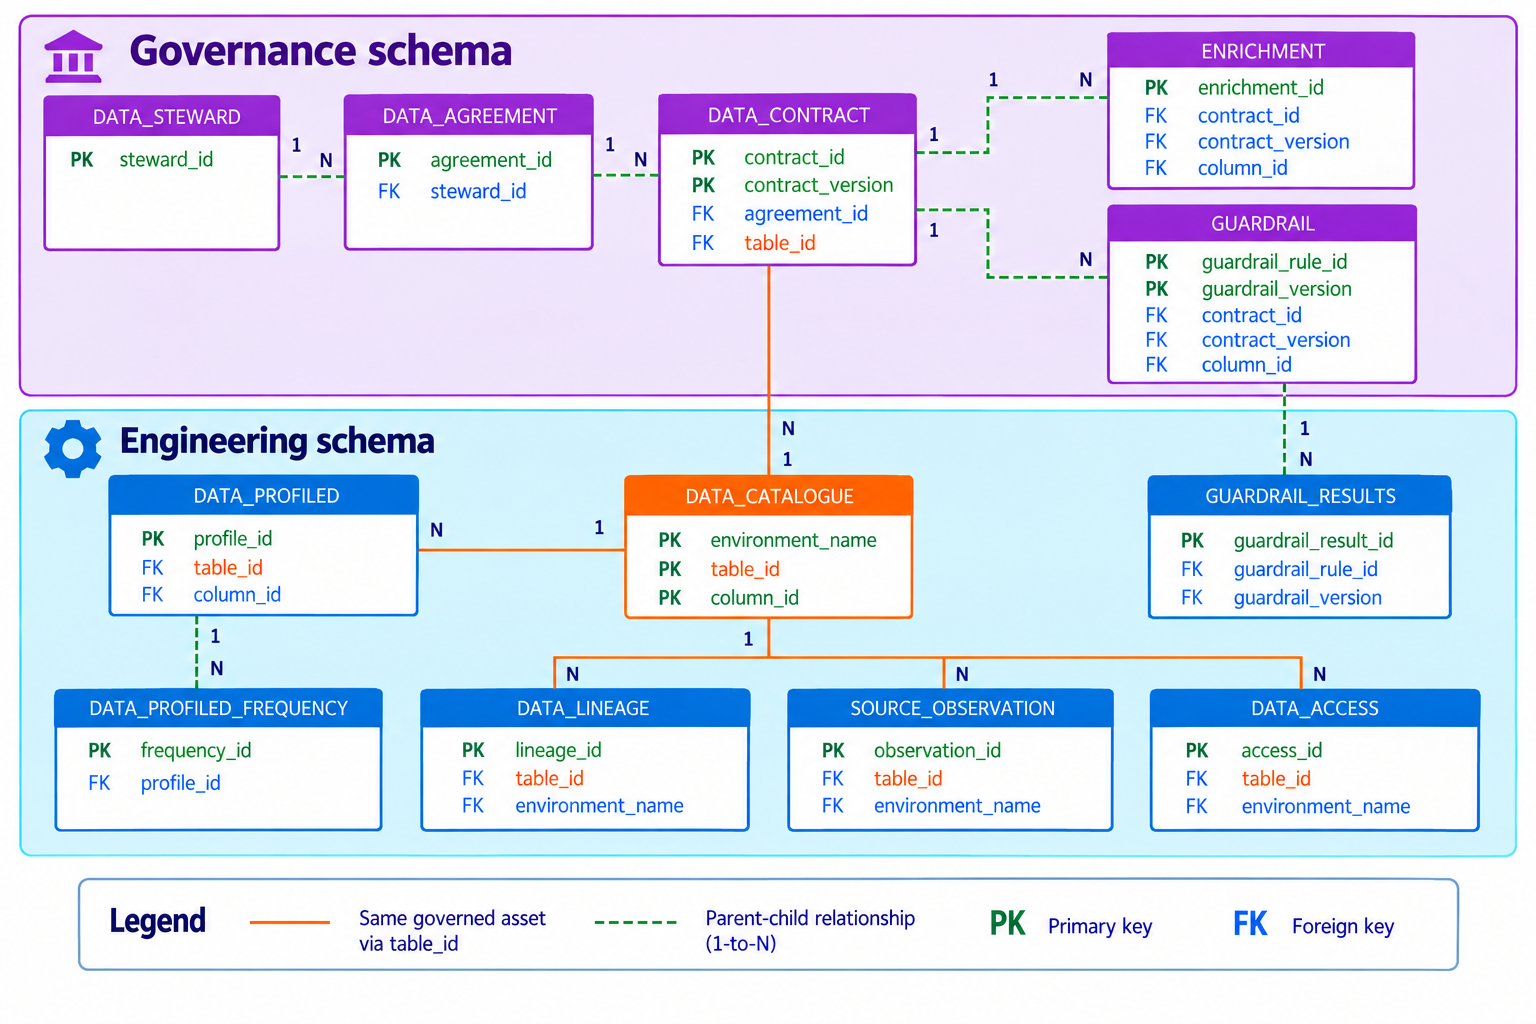
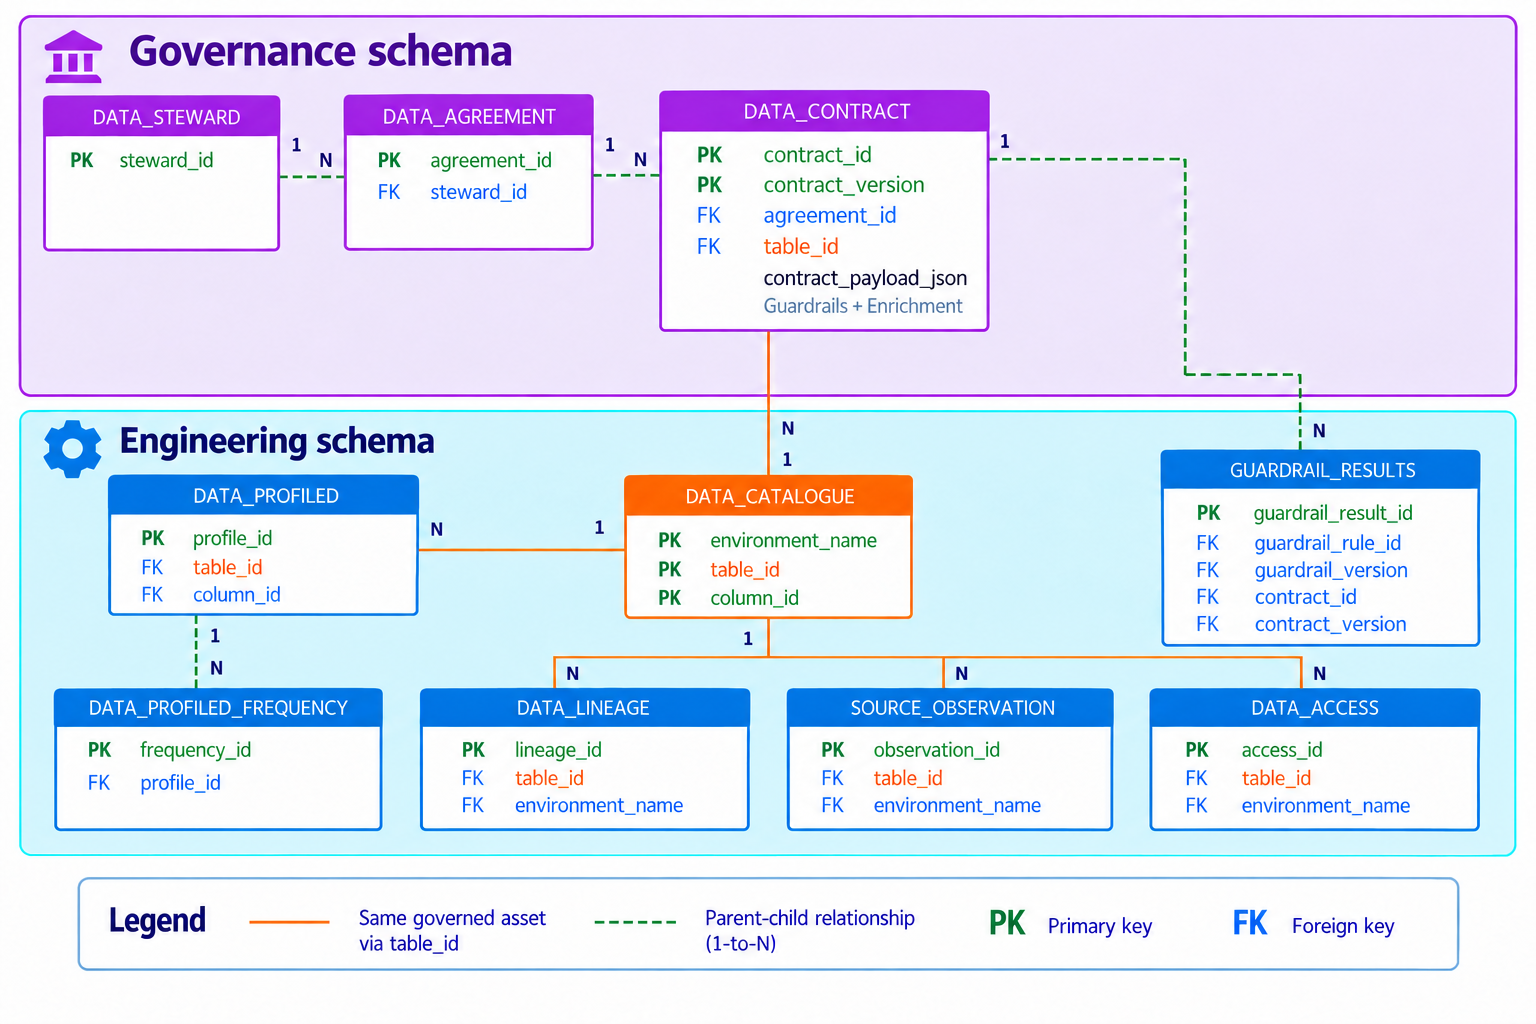
docs: restore metadata illustration and simplify overview

diff --git a/scripts/reference_docs_metadata.py b/scripts/reference_docs_metadata.py
@@ -109,9 +109,7 @@ METADATA_REFERENCE_OVERVIEW_INTRO = """FabricOps metadata is stored in one Metad
 - **Governance** stores authored governance definitions.
 - **Engineering** stores technical observations, profiling, lineage, access observations, and runtime results.
 
-`table_id` is the canonical bridge for the same governed data asset across both schemas. `contract_id` and `contract_version` identify its governed definition, with descriptive Enrichment and executable Guardrails stored only in `METADATA_DATA_CONTRACT.contract_payload_json` for that exact version.
-
-`METADATA_DATA_CONTRACT` is the physical table. `contract_payload_json` is a string column in each version row containing the JSON definition; it is not another table. One row represents a governed table's contract version in its authoring environment."""
+`table_id` connects the same governed asset across both schemas. `contract_id` and `contract_version` identify one exact Data Contract version."""
 
 METADATA_REFERENCE_AGREEMENT_CONTRACT_EXPLANATION = (
     "## Data Agreement versus Data Contract\n\n"
@@ -122,29 +120,15 @@ METADATA_REFERENCE_AGREEMENT_CONTRACT_EXPLANATION = (
     "The contract answers: Exactly what data will be delivered, in what structure, at what quality, and how reliably?"
 )
 
-METADATA_REFERENCE_MODEL_DIAGRAM = """```mermaid
-flowchart TB
-    subgraph Governance
-        steward["METADATA_DATA_STEWARD"] --> agreement["METADATA_DATA_AGREEMENT"]
-        agreement --> contract["METADATA_DATA_CONTRACT<br/>contract_payload_json: string column<br/>Enrichment + Guardrails"]
-    end
-    subgraph Engineering
-        catalogue["METADATA_DATA_CATALOGUE"] --> profiled["METADATA_DATA_PROFILED"]
-        profiled --> frequency["METADATA_DATA_PROFILED_FREQUENCY"]
-        catalogue --> lineage["METADATA_DATA_LINEAGE"]
-        catalogue --> access["METADATA_DATA_ACCESS"]
-        catalogue --> observation["METADATA_SOURCE_OBSERVATION"]
-        results["METADATA_GUARDRAIL_RESULTS"]
-    end
-    catalogue --> contract
-    contract --> results
-```"""
+METADATA_REFERENCE_MODEL_DIAGRAM = (
+    "![FabricOps metadata model: Governance and Engineering schemas, with a "
+    "one-to-many Data Contract to Guardrail Results relationship]"
+    "(../assets/fabricops-metadata-model.png)"
+)
 
 METADATA_REFERENCE_MODEL_DIAGRAM_CAPTION = (
-    "The current registry contains 10 physical metadata tables, reduced from 12. "
-    "Enrichment and Guardrail definitions are inside the Data Contract payload; "
-    "their separate definition tables and schema pages are removed. "
-    "Execution results remain separate. Setup does not delete existing Lakehouse tables."
+    "`METADATA_DATA_CONTRACT.contract_payload_json` is the JSON string column "
+    "containing authored Guardrails and Enrichment for each contract version."
 )
 
 METADATA_TABLE_MODELS = {

diff --git a/tests/unit/test_reference_agent_docs.py b/tests/unit/test_reference_agent_docs.py
@@ -737,19 +737,23 @@ def test_concept_pages_link_back_to_key_callable_references() -> None:
 
 
 def test_metadata_reference_overview_renders_model_diagram() -> None:
-    """The current model shows only registered physical tables and labels the JSON column."""
+    """The current model uses the illustration and describes the implemented payload column."""
     from fabricops_kit.config.metadata_schemas import CANONICAL_METADATA_TABLES
 
-    text = (ROOT / "docs" / "reference" / "metadata.md").read_text(encoding="utf-8")
-    diagram = text.split("```mermaid", 1)[1].split("```", 1)[0]
+    page = ROOT / "docs" / "reference" / "metadata.md"
+    text = page.read_text(encoding="utf-8")
+    image_reference = "../assets/fabricops-metadata-model.png"
+    assert (page.parent / image_reference).resolve().is_file()
+    assert image_reference in text
+    assert "one-to-many Data Contract to Guardrail Results relationship" in text
+    assert "```mermaid" not in text
     assert len(CANONICAL_METADATA_TABLES) == 10
-    assert all(name in diagram for name in CANONICAL_METADATA_TABLES)
-    assert "METADATA_ENRICHMENT" not in diagram
-    assert re.search(r"\bMETADATA_GUARDRAIL\b", diagram) is None
-    assert "contract_payload_json: string column" in diagram
-    assert "fabricops-metadata-model.png" not in text
-    assert "10 physical metadata tables, reduced from 12" in text
-    assert text.index("```mermaid") < text.index('<div class="metadata-table-grid">')
+    assert all(name in text for name in CANONICAL_METADATA_TABLES)
+    assert "`METADATA_DATA_CONTRACT.contract_payload_json` is the JSON string column" in text
+    assert "containing authored Guardrails and Enrichment" in text
+    assert "reduced from" not in text
+    assert "migration" not in text.casefold()
+    assert text.index(image_reference) < text.index('<div class="metadata-table-grid">')
 
 
 def test_template_function_map_page_stays_removed() -> None:

diff --git a/docs/reference/metadata.md b/docs/reference/metadata.md
@@ -1,33 +1,15 @@
 # List of Metadata Tables
 
-```mermaid
-flowchart TB
-    subgraph Governance
-        steward["METADATA_DATA_STEWARD"] --> agreement["METADATA_DATA_AGREEMENT"]
-        agreement --> contract["METADATA_DATA_CONTRACT<br/>contract_payload_json: string column<br/>Enrichment + Guardrails"]
-    end
-    subgraph Engineering
-        catalogue["METADATA_DATA_CATALOGUE"] --> profiled["METADATA_DATA_PROFILED"]
-        profiled --> frequency["METADATA_DATA_PROFILED_FREQUENCY"]
-        catalogue --> lineage["METADATA_DATA_LINEAGE"]
-        catalogue --> access["METADATA_DATA_ACCESS"]
-        catalogue --> observation["METADATA_SOURCE_OBSERVATION"]
-        results["METADATA_GUARDRAIL_RESULTS"]
-    end
-    catalogue --> contract
-    contract --> results
-```
+![FabricOps metadata model: Governance and Engineering schemas, with a one-to-many Data Contract to Guardrail Results relationship](../assets/fabricops-metadata-model.png)
 
 FabricOps metadata is stored in one Metadata Lakehouse with two physical schemas:
 
 - **Governance** stores authored governance definitions.
 - **Engineering** stores technical observations, profiling, lineage, access observations, and runtime results.
 
-`table_id` is the canonical bridge for the same governed data asset across both schemas. `contract_id` and `contract_version` identify its governed definition, with descriptive Enrichment and executable Guardrails stored only in `METADATA_DATA_CONTRACT.contract_payload_json` for that exact version.
+`table_id` connects the same governed asset across both schemas. `contract_id` and `contract_version` identify one exact Data Contract version.
 
-`METADATA_DATA_CONTRACT` is the physical table. `contract_payload_json` is a string column in each version row containing the JSON definition; it is not another table. One row represents a governed table's contract version in its authoring environment.
-
-The current registry contains 10 physical metadata tables, reduced from 12. Enrichment and Guardrail definitions are inside the Data Contract payload; their separate definition tables and schema pages are removed. Execution results remain separate. Setup does not delete existing Lakehouse tables.
+`METADATA_DATA_CONTRACT.contract_payload_json` is the JSON string column containing authored Guardrails and Enrichment for each contract version.
 
 ## Metadata tables
 
